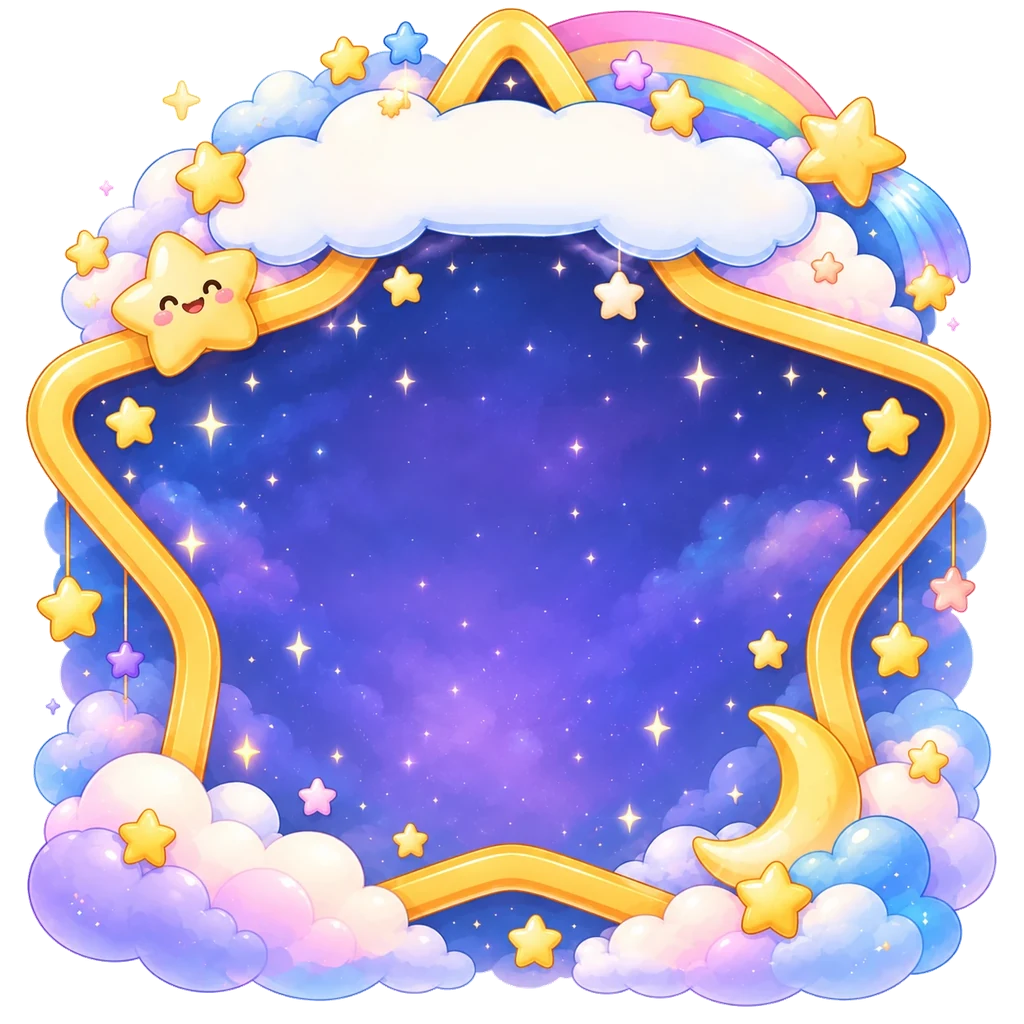
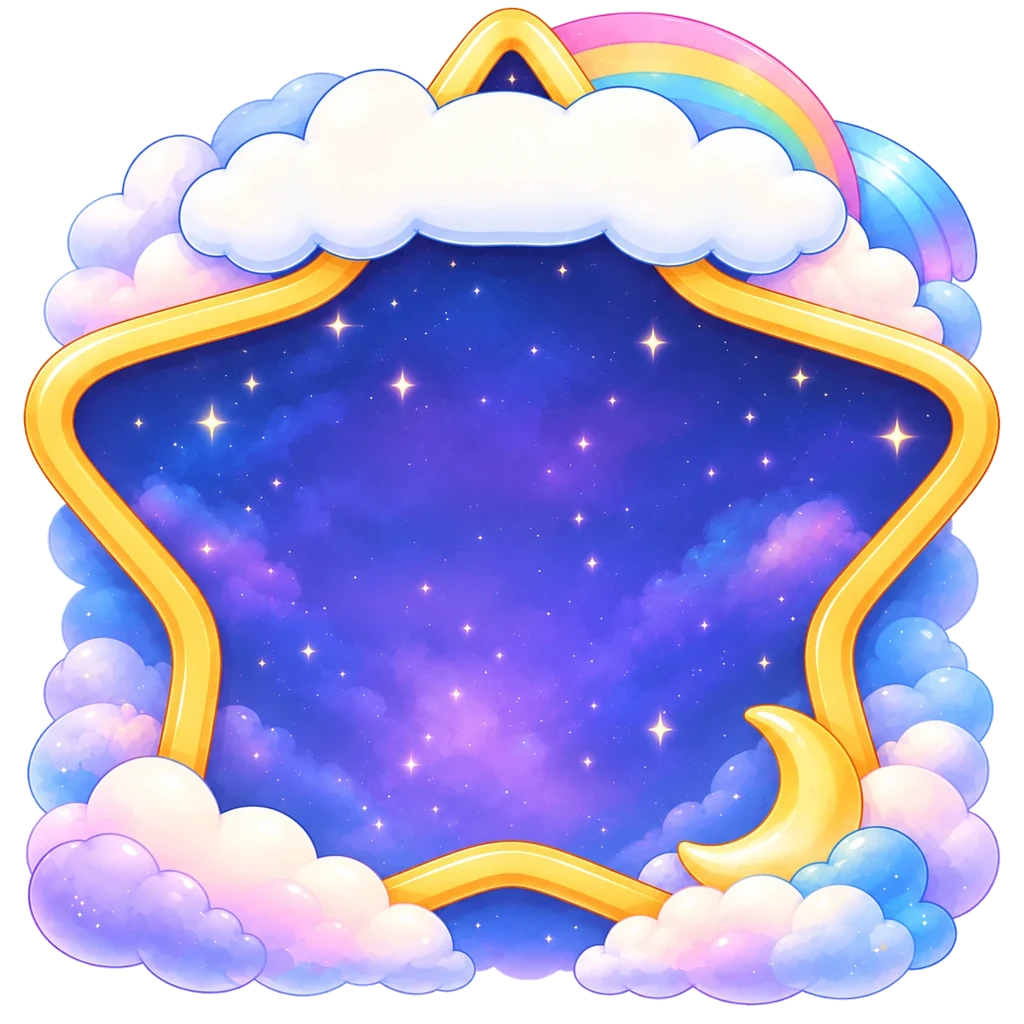
하단 줄 왼쪽 절반에 바구니 카드 이름(누르면 창으로 열어 사용), 별 틀 그림 교체
- 진행률은 오른쪽 절반만 쓰고, 바구니가 비었으면 줄 전체를 쓴다
- 바구니 카드는 꺼내 놓지 않아도 이름을 눌러 창에서 큰 칸 모습으로 쓴다 (창이 열리는 카드는 그 창까지 바로 연다)
- 칭찬 별의 밤하늘 틀을 새 그림으로 바꾸고 팻말 위치를 맞춤

diff --git a/src/styles/v2.css b/src/styles/v2.css
@@ -1006,8 +1006,8 @@ header .actions button.suggest.customize.on:hover{color:#fff;background:#57b864}
 .pr-board.star.art img{padding:calc(var(--d) * .03)}
 .pr-board.star.art img.on{filter:drop-shadow(0 calc(var(--d) * .03) calc(var(--d) * .06) rgba(30,27,75,.45))}
 .pr-art .pr-board.art img.on{animation:bounceIn .4s cubic-bezier(.34,1.56,.64,1)}
-.pr-art.star .pr-art-sign{left:25%;right:23%;top:11.5%;height:12%;color:#3730a3;transform:none}
-.pr-art.star .pr-art-fill{left:20%;right:20%;top:31%;bottom:20%}
+.pr-art.star .pr-art-sign{left:22%;right:20%;top:10.5%;height:13%;color:#3730a3;transform:none}
+.pr-art.star .pr-art-fill{left:20%;right:20%;top:31%;bottom:21%}
 .pr-stage.star{background:linear-gradient(160deg,#eef2ff,#fff 60%)}
 /* 작은 별 판(카드 · 설정 미리보기)은 밤하늘이 없으므로 빈자리가 보이게 바탕을 살짝 준다 */
 .pr-tile .pr-board.star.art,.ps-pic .pr-board.star.art{padding:calc(var(--d) * .3);border-radius:calc(var(--d) * .8);background:linear-gradient(160deg,#4338ca,#6d28d9)}
@@ -1016,3 +1016,19 @@ header .actions button.suggest.customize.on:hover{color:#fff;background:#57b864}
 .pc{display:flex;flex-direction:column;align-items:center;gap:8px;min-height:0}
 .pc-img{display:block;max-width:100%;max-height:calc(90vh - 270px);aspect-ratio:1600/1131;border-radius:12px;box-shadow:0 10px 30px -10px rgba(15,23,42,.35);animation:bounceIn .5s cubic-bezier(.34,1.56,.64,1)}
 .pc-note{font-size:13px;color:var(--text-sub);text-align:center;line-height:1.4;word-break:keep-all}
+
+/* ── 하단 줄: 왼쪽 절반은 바구니에 담긴 카드 이름, 오른쪽 절반은 진행률 ── */
+footer .dock{flex:0 0 calc(50% - 7px);min-width:0;display:flex;align-items:center;gap:8px;padding-right:14px;border-right:2px solid rgba(0,0,0,.07)}
+footer .dock>i{flex:none;font-size:22px;color:#c2701c}
+footer .dock>div{flex:1;min-width:0;display:flex;align-items:center;overflow-x:auto;scrollbar-width:none;white-space:nowrap}
+footer .dock>div::-webkit-scrollbar{display:none}
+footer .dock button{flex:none;padding:4px 10px;border-radius:99px;font-size:var(--fs-body);font-weight:var(--fw-label);color:var(--text);transition:.15s}
+footer .dock button:hover{background:#fff;color:var(--primary-dark)}
+footer .dock button+button{position:relative;margin-left:10px}
+footer .dock button+button::before{content:'·';position:absolute;left:-8px;color:#cbd5e1;pointer-events:none}
+footer .dock~.progress-wrap{flex:1 1 0}
+footer:has(.dock) .status{flex:none}
+@media print{footer .dock{display:none!important}}
+/* 바구니 카드를 창으로 열었을 때: 큰 칸 크기의 자리 하나 */
+.dock-slot{height:min(calc(90vh - 190px),600px);-webkit-user-select:auto;user-select:auto}
+.dock-slot>.card{flex:1;box-shadow:none;border:2px solid #eef0f5;background:#fff}

diff --git a/src/features/layout/Dock.tsx b/src/features/layout/Dock.tsx
@@ -1,0 +1,47 @@
+import { useEffect, useRef, useState } from 'react';
+import { Popup } from '@/core/ui/Popup';
+import { SlotContext } from '@/core/ui/slot';
+import { ensureAudio, playSound } from '@/core/sound';
+import { cardById } from '@/features/registry';
+import { usePlacement } from './store';
+
+// 바구니(보관함)에 담긴 카드: 진행률 줄 왼쪽에 이름만 글자로 늘어놓는다.
+// 화면에 꺼내 놓지 않아도 이름을 누르면 창으로 열어 그대로 쓸 수 있다.
+
+/** 창 안에 카드를 큰 칸 모습으로 그린다. 누르면 창이 열리는 카드는 그 창까지 바로 열어 준다 */
+function DockCard({ id }: { id: string }) {
+  const card = cardById(id)!;
+  const box = useRef<HTMLDivElement>(null);
+  useEffect(() => {
+    const t = setTimeout(() => box.current?.querySelector<HTMLElement>(':scope > .card.touchable')?.click(), 250);
+    return () => clearTimeout(t);
+  }, []);
+  return (
+    <div className="slot dock-slot" data-size="large" data-w="wide" ref={box}>
+      <SlotContext value="large"><card.Component size="large" /></SlotContext>
+    </div>
+  );
+}
+
+export function DockCards() {
+  const { drawer } = usePlacement();
+  const [open, setOpen] = useState<string | null>(null);
+  const cards = drawer.map((id) => cardById(id)).filter((c) => !!c);
+  const shown = open && drawer.includes(open) ? cardById(open) : undefined;
+  if (!cards.length) return null;
+  return (
+    <>
+      <nav className="dock" aria-label="바구니에 담긴 카드">
+        <i className="ph-fill ph-basket" aria-hidden="true" />
+        <div>
+          {cards.map((c) => <button key={c.id} type="button" title={`${c.title} 열기`} onClick={() => { ensureAudio(); playSound('select'); setOpen(c.id); }}>{c.title}</button>)}
+        </div>
+      </nav>
+      {shown && (
+        <Popup title={<><i className={shown.icon} style={{ color: shown.color, marginRight: 8 }} />{shown.title}</>} large onClose={() => setOpen(null)}>
+          <DockCard key={shown.id} id={shown.id} />
+        </Popup>
+      )}
+    </>
+  );
+}

diff --git a/src/app/Footer.tsx b/src/app/Footer.tsx
@@ -1,8 +1,10 @@
 import { useCurrentClass } from '@/core/data/store';
 import { progressOf, useDay } from '@/core/data/day';
 import { usePlacement } from '@/features/layout/store';
+import { DockCards } from '@/features/layout/Dock';
 
-// 하단 진행률: 화면에 놓인 카드의 아침 준비 중 몇 가지를 했는지 (모두 놓여 있으면 7가지)
+// 하단 줄: 왼쪽 절반은 바구니에 담긴 카드 이름(누르면 창으로 연다), 오른쪽 절반은 아침 준비 진행률.
+// 진행률은 화면에 놓인 카드의 아침 준비 중 몇 가지를 했는지 (모두 놓여 있으면 7가지). 바구니가 비었으면 진행률이 줄 전체를 쓴다.
 export function Footer() {
   const cls = useCurrentClass();
   const record = useDay((s) => s.record);
@@ -13,6 +15,7 @@ export function Footer() {
   const all = done === tasks.length;
   return (
     <footer>
+      <DockCards />
       <div className="progress-wrap"><div className="progress-bar" style={{ width: `${(done / tasks.length) * 100}%` }} /></div>
       <div className={`status${all ? ' done' : ''}`}>{all ? '🎉 오늘의 아침 준비 완료! 모두 화이팅!' : `아침 준비 ${done}/${tasks.length}`}</div>
     </footer>
